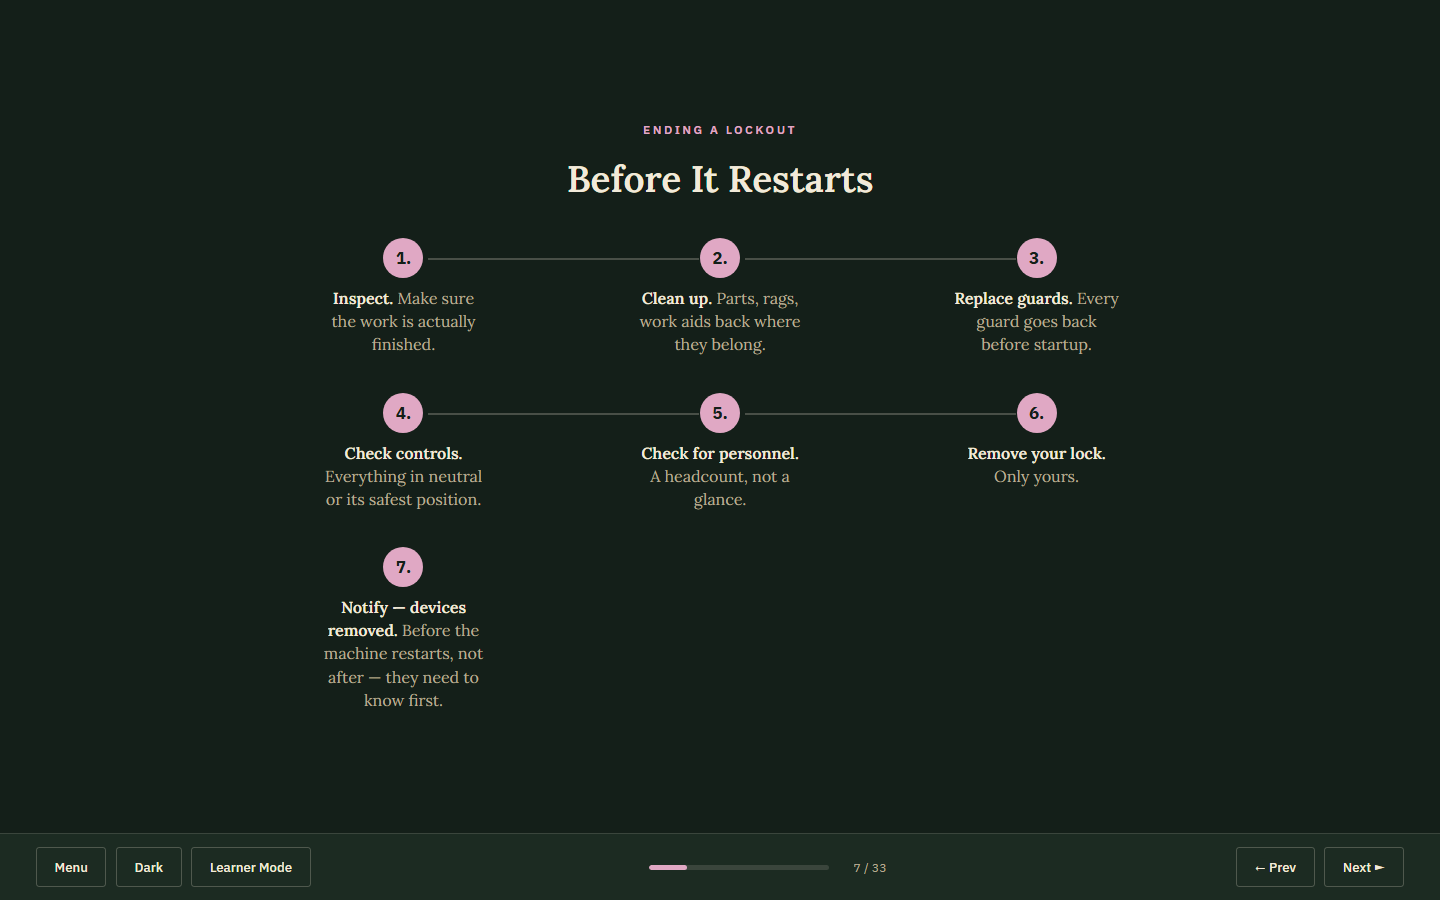
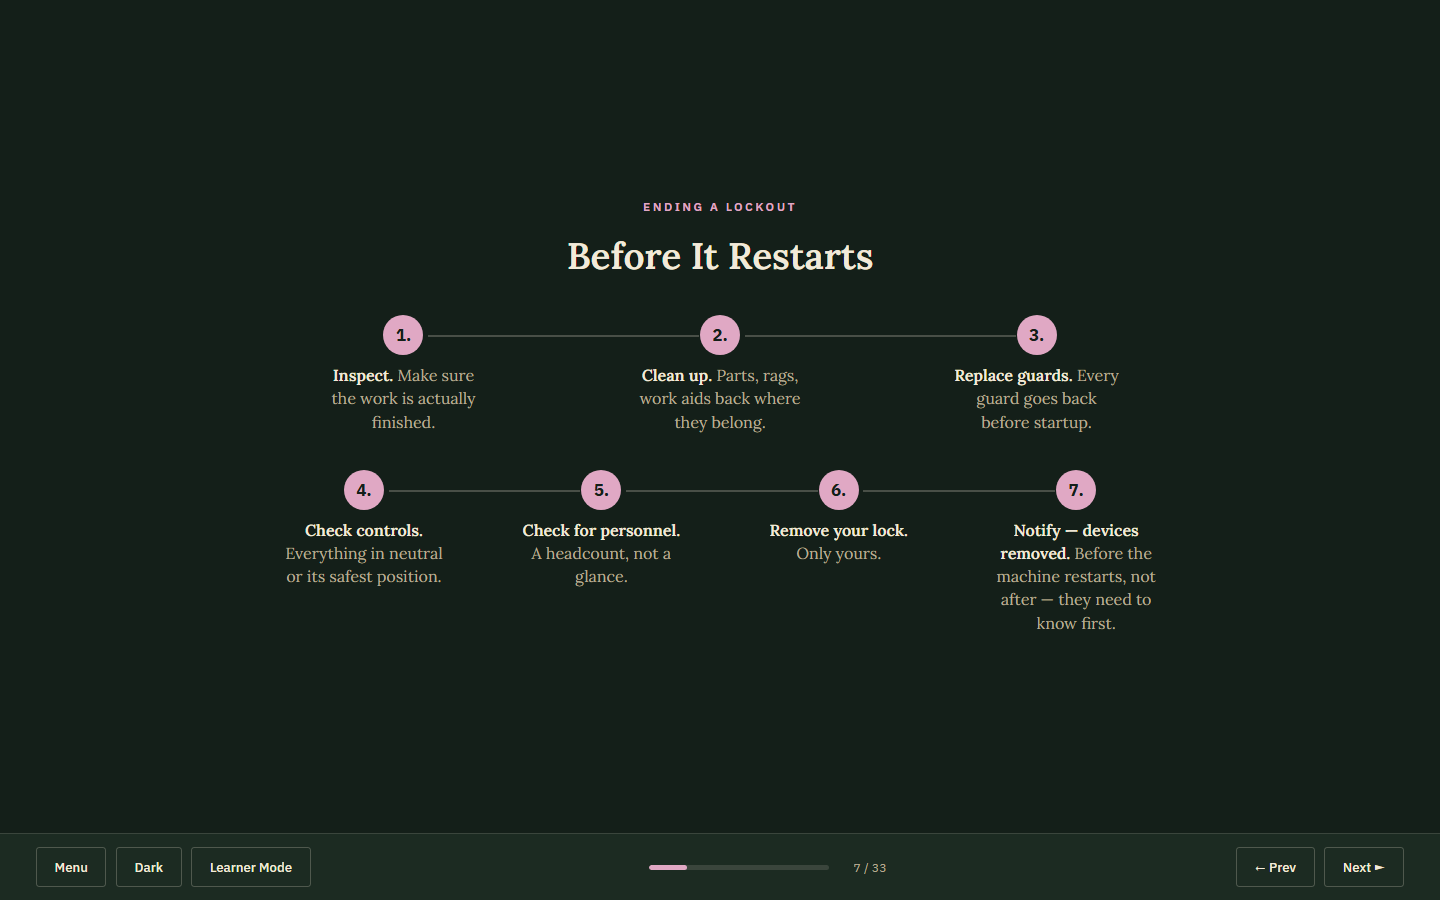
LOTO sequence shape: lay out 3+4 instead of 3+3+1, all three players
Sean asked to avoid the orphaned single item on a trailing row for
7-item sequences ("Before It Restarts" in M3) — there's margin to
spare to fit 4 across instead. Rather than hardcode a 7-item-specific
layout, render() now computes row groupings generally (seqRows()):
rows of 3, folding a would-be lone trailing item into the row before
it. Each row is now its own grid, so the connector CSS simplified to
:not(:last-child) — correct for any item count, no per-count tuning.

Ported into all three players. M1's 6-item sequence is unaffected
(3+3, still divides evenly) — verified pixel-identical. M3's 7-item
sequence now reads 3+4; screenshots updated in both modes.

diff --git a/courses/loto/builds/module-01/index.html b/courses/loto/builds/module-01/index.html
@@ -476,14 +476,22 @@ body {
 }
 .slide.has-image.shape-figure .figure-caption { color: var(--onimage-ink); }
 
-/* sequence — ordered steps as a visible progression, not a stacked list. */
+/* sequence — ordered steps as a visible progression, not a stacked list.
+   Rows are computed in render() (see seqRows()), not fixed at 3-per-row:
+   a trailing single-item row reads as an orphan, so a 7-item sequence
+   lays out 3+4 rather than 3+3+1. Each row is its own grid (column count
+   set inline per row), so the connector below only needs :not(:last-child)
+   — no nth-child row-size math, correct for any row size. */
 .slide-consolidation .consolidation-sequence {
-  list-style: none;
-  display: grid;
-  grid-template-columns: repeat(3, minmax(0, 1fr));
-  gap: 4vh 1.5vw;
+  display: flex;
+  flex-direction: column;
+  gap: 4vh;
   max-width: 58rem;
   width: 100%;
+}
+.slide-consolidation .consolidation-sequence .seq-row {
+  display: grid;
+  gap: 1.5vw;
 }
 .slide-consolidation .consolidation-sequence .seq-step {
   position: relative;
@@ -515,12 +523,7 @@ body {
   max-width: 17ch;
 }
 .slide-consolidation .consolidation-sequence .seq-text strong { color: var(--ink); font-weight: 600; }
-/* connector to the next step — within the same row of three, and never
-   past the last item overall (:not(:last-child) added for consistency
-   with M2/M3, ported back here — harmless for this slide's 6 items, since
-   nth-child(3n) already excluded item 6, but item counts aren't always
-   divisible by 3, e.g. M3's 7-item "Before It Restarts"). */
-.slide-consolidation .consolidation-sequence .seq-step:not(:nth-child(3n)):not(:last-child)::after {
+.slide-consolidation .consolidation-sequence .seq-step:not(:last-child)::after {
   content: '';
   position: absolute;
   top: 1.25rem;
@@ -530,7 +533,7 @@ body {
   background: var(--rule-strong);
 }
 @media (max-width: 768px) {
-  .slide-consolidation .consolidation-sequence { grid-template-columns: 1fr; gap: 3vh; }
+  .slide-consolidation .consolidation-sequence .seq-row { grid-template-columns: 1fr !important; }
   .slide-consolidation .consolidation-sequence .seq-step::after { display: none; }
 }
 
@@ -1112,6 +1115,22 @@ function renderCitation(source) {
 
 function nl2br(s) { return (s || '').replace(/\\n/g, '<br>'); }
 
+// sequence shape — split items into rows of 3, but never leave a lone
+// trailing item (3+3+1 reads as an orphan): fold it back into the row
+// before, so 7 items lay out 3+4, 4 lays out as one row of 4, etc.
+function seqRows(items) {
+  const n = items.length;
+  const full = Math.floor(n / 3);
+  const rem = n % 3;
+  const rowSizes = new Array(full).fill(3);
+  if (rem === 1 && rowSizes.length > 0) rowSizes[rowSizes.length - 1] += 1;
+  else if (rem > 0) rowSizes.push(rem);
+  const rows = [];
+  let idx = 0;
+  for (const size of rowSizes) { rows.push(items.slice(idx, idx + size)); idx += size; }
+  return rows;
+}
+
 function initPlayer() {
   renderSlide();
   updateProgress();
@@ -1198,9 +1217,11 @@ function renderSlide() {
       const isList = Array.isArray(slide.items) && slide.items.length > 0 && typeof slide.items[0] === 'object';
       const isSequence = isList && slide.shape === 'sequence';
       const body = isSequence
-        ? `<ol class="consolidation-sequence">${slide.items.map(it => `
-            <li class="seq-step"><span class="seq-num">${it.num}</span><span class="seq-text">${it.text}</span></li>
-          `).join('')}</ol>`
+        ? `<div class="consolidation-sequence">${seqRows(slide.items).map(row => `
+            <div class="seq-row" style="grid-template-columns: repeat(${row.length}, minmax(0, 1fr));">
+              ${row.map(it => `<div class="seq-step"><span class="seq-num">${it.num}</span><span class="seq-text">${it.text}</span></div>`).join('')}
+            </div>
+          `).join('')}</div>`
         : isList
         ? `<ol class="consolidation-list">${slide.items.map(it => `
             <li class="c-item"><span class="c-num">${it.num}</span><span class="c-text">${it.text}</span></li>

diff --git a/courses/loto/builds/module-03/index.html b/courses/loto/builds/module-03/index.html
@@ -476,14 +476,22 @@ body {
 }
 .slide.has-image.shape-figure .figure-caption { color: var(--onimage-ink); }
 
-/* sequence — ordered steps as a visible progression, not a stacked list. */
+/* sequence — ordered steps as a visible progression, not a stacked list.
+   Rows are computed in render() (see seqRows()), not fixed at 3-per-row:
+   a trailing single-item row reads as an orphan, so this module's 7-item
+   "Before It Restarts" lays out 3+4 rather than 3+3+1. Each row is its
+   own grid (column count set inline per row), so the connector below
+   only needs :not(:last-child) — no nth-child row-size math. */
 .slide-consolidation .consolidation-sequence {
-  list-style: none;
-  display: grid;
-  grid-template-columns: repeat(3, minmax(0, 1fr));
-  gap: 4vh 1.5vw;
+  display: flex;
+  flex-direction: column;
+  gap: 4vh;
   max-width: 58rem;
   width: 100%;
+}
+.slide-consolidation .consolidation-sequence .seq-row {
+  display: grid;
+  gap: 1.5vw;
 }
 .slide-consolidation .consolidation-sequence .seq-step {
   position: relative;
@@ -515,12 +523,7 @@ body {
   max-width: 17ch;
 }
 .slide-consolidation .consolidation-sequence .seq-text strong { color: var(--ink); font-weight: 600; }
-/* connector to the next step — within the same row of three, and never
-   past the last item overall (§ generalized from M1: nth-child(3n) alone
-   only happened to exclude M1's last item because 6 is divisible by 3;
-   :not(:last-child) makes it correct for any item count, e.g. this
-   module's 7-item "Before It Restarts"). */
-.slide-consolidation .consolidation-sequence .seq-step:not(:nth-child(3n)):not(:last-child)::after {
+.slide-consolidation .consolidation-sequence .seq-step:not(:last-child)::after {
   content: '';
   position: absolute;
   top: 1.25rem;
@@ -530,7 +533,7 @@ body {
   background: var(--rule-strong);
 }
 @media (max-width: 768px) {
-  .slide-consolidation .consolidation-sequence { grid-template-columns: 1fr; gap: 3vh; }
+  .slide-consolidation .consolidation-sequence .seq-row { grid-template-columns: 1fr !important; }
   .slide-consolidation .consolidation-sequence .seq-step::after { display: none; }
 }
 
@@ -1183,6 +1186,22 @@ function renderCitation(source) {
 
 function nl2br(s) { return (s || '').replace(/\\n/g, '<br>'); }
 
+// sequence shape — split items into rows of 3, but never leave a lone
+// trailing item (3+3+1 reads as an orphan): fold it back into the row
+// before, so 7 items lay out 3+4, 4 lays out as one row of 4, etc.
+function seqRows(items) {
+  const n = items.length;
+  const full = Math.floor(n / 3);
+  const rem = n % 3;
+  const rowSizes = new Array(full).fill(3);
+  if (rem === 1 && rowSizes.length > 0) rowSizes[rowSizes.length - 1] += 1;
+  else if (rem > 0) rowSizes.push(rem);
+  const rows = [];
+  let idx = 0;
+  for (const size of rowSizes) { rows.push(items.slice(idx, idx + size)); idx += size; }
+  return rows;
+}
+
 function initPlayer() {
   renderSlide();
   updateProgress();
@@ -1269,9 +1288,11 @@ function renderSlide() {
       const isList = Array.isArray(slide.items) && slide.items.length > 0 && typeof slide.items[0] === 'object';
       const isSequence = isList && slide.shape === 'sequence';
       const body = isSequence
-        ? `<ol class="consolidation-sequence">${slide.items.map(it => `
-            <li class="seq-step"><span class="seq-num">${it.num}</span><span class="seq-text">${it.text}</span></li>
-          `).join('')}</ol>`
+        ? `<div class="consolidation-sequence">${seqRows(slide.items).map(row => `
+            <div class="seq-row" style="grid-template-columns: repeat(${row.length}, minmax(0, 1fr));">
+              ${row.map(it => `<div class="seq-step"><span class="seq-num">${it.num}</span><span class="seq-text">${it.text}</span></div>`).join('')}
+            </div>
+          `).join('')}</div>`
         : isList
         ? `<ol class="consolidation-list">${slide.items.map(it => `
             <li class="c-item"><span class="c-num">${it.num}</span><span class="c-text">${it.text}</span></li>

diff --git a/courses/loto/builds/module-02/index.html b/courses/loto/builds/module-02/index.html
@@ -476,14 +476,22 @@ body {
 }
 .slide.has-image.shape-figure .figure-caption { color: var(--onimage-ink); }
 
-/* sequence — ordered steps as a visible progression, not a stacked list. */
+/* sequence — ordered steps as a visible progression, not a stacked list.
+   Rows are computed in render() (see seqRows()), not fixed at 3-per-row:
+   a trailing single-item row reads as an orphan, so a 7-item sequence
+   lays out 3+4 rather than 3+3+1. Each row is its own grid (column count
+   set inline per row), so the connector below only needs :not(:last-child)
+   — no nth-child row-size math, correct for any row size. */
 .slide-consolidation .consolidation-sequence {
-  list-style: none;
-  display: grid;
-  grid-template-columns: repeat(3, minmax(0, 1fr));
-  gap: 4vh 1.5vw;
+  display: flex;
+  flex-direction: column;
+  gap: 4vh;
   max-width: 58rem;
   width: 100%;
+}
+.slide-consolidation .consolidation-sequence .seq-row {
+  display: grid;
+  gap: 1.5vw;
 }
 .slide-consolidation .consolidation-sequence .seq-step {
   position: relative;
@@ -515,11 +523,7 @@ body {
   max-width: 17ch;
 }
 .slide-consolidation .consolidation-sequence .seq-text strong { color: var(--ink); font-weight: 600; }
-/* connector to the next step — within the same row of three, and never
-   past the last item overall (§ generalized from M1: nth-child(3n) alone
-   only happened to exclude M1's last item because 6 is divisible by 3;
-   :not(:last-child) makes it correct for any item count, e.g. M3's 7). */
-.slide-consolidation .consolidation-sequence .seq-step:not(:nth-child(3n)):not(:last-child)::after {
+.slide-consolidation .consolidation-sequence .seq-step:not(:last-child)::after {
   content: '';
   position: absolute;
   top: 1.25rem;
@@ -529,7 +533,7 @@ body {
   background: var(--rule-strong);
 }
 @media (max-width: 768px) {
-  .slide-consolidation .consolidation-sequence { grid-template-columns: 1fr; gap: 3vh; }
+  .slide-consolidation .consolidation-sequence .seq-row { grid-template-columns: 1fr !important; }
   .slide-consolidation .consolidation-sequence .seq-step::after { display: none; }
 }
 
@@ -1058,6 +1062,22 @@ function renderCitation(source) {
 
 function nl2br(s) { return (s || '').replace(/\\n/g, '<br>'); }
 
+// sequence shape — split items into rows of 3, but never leave a lone
+// trailing item (3+3+1 reads as an orphan): fold it back into the row
+// before, so 7 items lay out 3+4, 4 lays out as one row of 4, etc.
+function seqRows(items) {
+  const n = items.length;
+  const full = Math.floor(n / 3);
+  const rem = n % 3;
+  const rowSizes = new Array(full).fill(3);
+  if (rem === 1 && rowSizes.length > 0) rowSizes[rowSizes.length - 1] += 1;
+  else if (rem > 0) rowSizes.push(rem);
+  const rows = [];
+  let idx = 0;
+  for (const size of rowSizes) { rows.push(items.slice(idx, idx + size)); idx += size; }
+  return rows;
+}
+
 function initPlayer() {
   renderSlide();
   updateProgress();
@@ -1144,9 +1164,11 @@ function renderSlide() {
       const isList = Array.isArray(slide.items) && slide.items.length > 0 && typeof slide.items[0] === 'object';
       const isSequence = isList && slide.shape === 'sequence';
       const body = isSequence
-        ? `<ol class="consolidation-sequence">${slide.items.map(it => `
-            <li class="seq-step"><span class="seq-num">${it.num}</span><span class="seq-text">${it.text}</span></li>
-          `).join('')}</ol>`
+        ? `<div class="consolidation-sequence">${seqRows(slide.items).map(row => `
+            <div class="seq-row" style="grid-template-columns: repeat(${row.length}, minmax(0, 1fr));">
+              ${row.map(it => `<div class="seq-step"><span class="seq-num">${it.num}</span><span class="seq-text">${it.text}</span></div>`).join('')}
+            </div>
+          `).join('')}</div>`
         : isList
         ? `<ol class="consolidation-list">${slide.items.map(it => `
             <li class="c-item"><span class="c-num">${it.num}</span><span class="c-text">${it.text}</span></li>

diff --git a/courses/loto/M2-M3-SHAPE-PASS-2026-07-20-CHANGE-NOTE.md b/courses/loto/M2-M3-SHAPE-PASS-2026-07-20-CHANGE-NOTE.md
@@ -48,7 +48,7 @@ Neither candidate carried an image, so no image was dropped for either.
 
 ### The 7-item sequence needed a small CSS generalization
 
-M1's sequence connector rule excluded the last item from getting a trailing connector line via `:not(:nth-child(3n))` — which only worked for M1's 6 items because 6 is divisible by 3, so the last item was always also "last in its row." "Before It Restarts" has 7 items, which land 3+3+1 — the 7th sits alone in a third row, and `:nth-child(3n)` alone doesn't exclude it (7 isn't a multiple of 3), so it would have shown a connector line pointing at nothing. Fixed by adding `:not(:last-child)` to the exclusion, in all three players (backported to M1 too, for consistency — harmless there since M1's item 6 was already excluded either way). Screenshot-verified in both modes: the orphan row renders with no dangling line.
+M1's sequence was a single fixed 3-column grid, which lays 7 items out as 3+3+1 — a lone item stranded on its own row. Sean asked for 3+4 instead, since there's margin to spare in the row width. Rather than hardcode a one-off "7 items → this exact layout" rule, `render()` now computes the row split generally: `seqRows()` groups items into rows of 3, and if that would leave exactly one item dangling on its own trailing row, folds it into the row before instead (3+3+1 → 3+4). Each row renders as its own independent grid (column count set inline per row), so the connector CSS simplified to a plain `:not(:last-child)` — no more nth-child row-size arithmetic, and it's correct for any item count without further tuning. Ported identically into all three players (M1's 6 items still lay out 3+3, unchanged — verified pixel-for-pixel — since 6 divides evenly and nothing needed folding). Screenshot-verified in both modes: the 7-item case now reads 3+4 with connectors only within each row and none dangling.
 
 ### `concept` → `definition`
 
